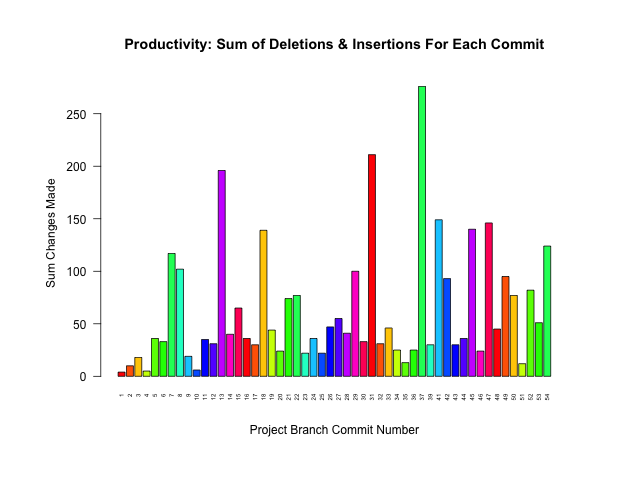
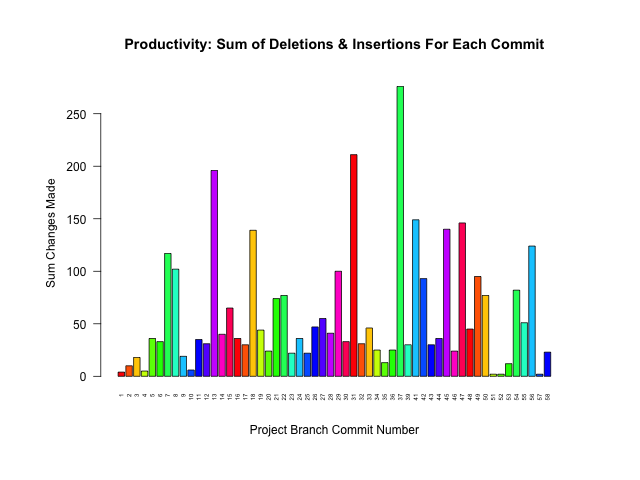
COMMIT #220

Changed region(s): [[0.1875, 0.1875, 0.875, 0.8438]]

diff --git a/README.md b/README.md
@@ -17,8 +17,8 @@ ProjectName::BranchName.data
 
 Project Name | Last Updated | # Commits | # Branches | Branches Merged
 :---|:---:|:---:|:---:|:---:
-[learn_some_C.Plus.Plus](https://github.com/pierremigeon/learn_some_C.Plus.Plus)                    |  2023-06-23  |  54   |  1  |  100%  (1/1)
-[commit_tracker](https://github.com/pierremigeon/commit_tracker)                                    |  2023-06-22  |  218  |  1  |  100%  (1/1)
+[learn_some_C.Plus.Plus](https://github.com/pierremigeon/learn_some_C.Plus.Plus)                    |  2023-06-24  |  58   |  1  |  100%  (1/1)
+[commit_tracker](https://github.com/pierremigeon/commit_tracker)                                    |  2023-06-23  |  219  |  1  |  100%  (1/1)
 [libft](https://github.com/pierremigeon/libft)                                                      |  2023-06-05  |  30   |  2  |  50%   (1/2)
 [ft_printf](https://github.com/pierremigeon/ft_printf)                                              |  2023-06-01  |  37   |  2  |  100%  (2/2)
 [minishell](https://github.com/pierremigeon/minishell)                                              |  2023-05-20  |  78   |  8  |  88%   (7/8)
